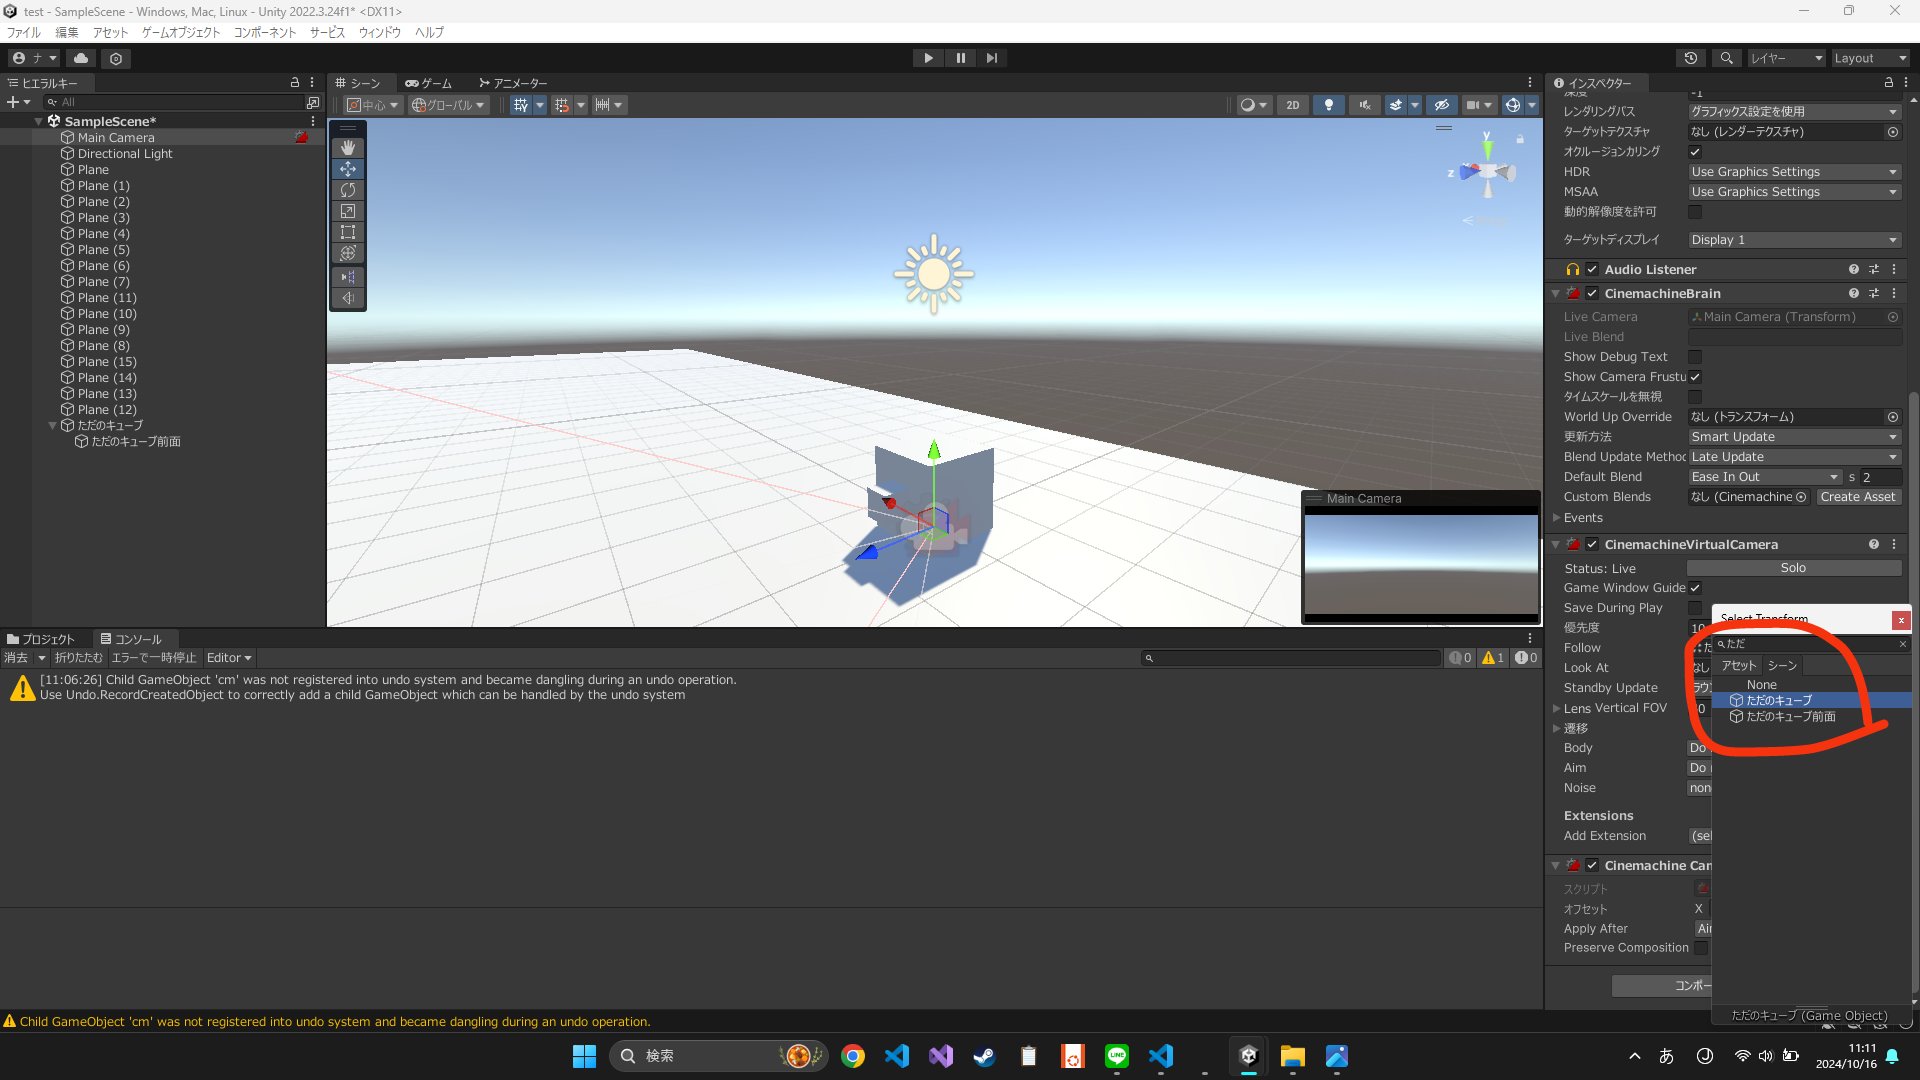
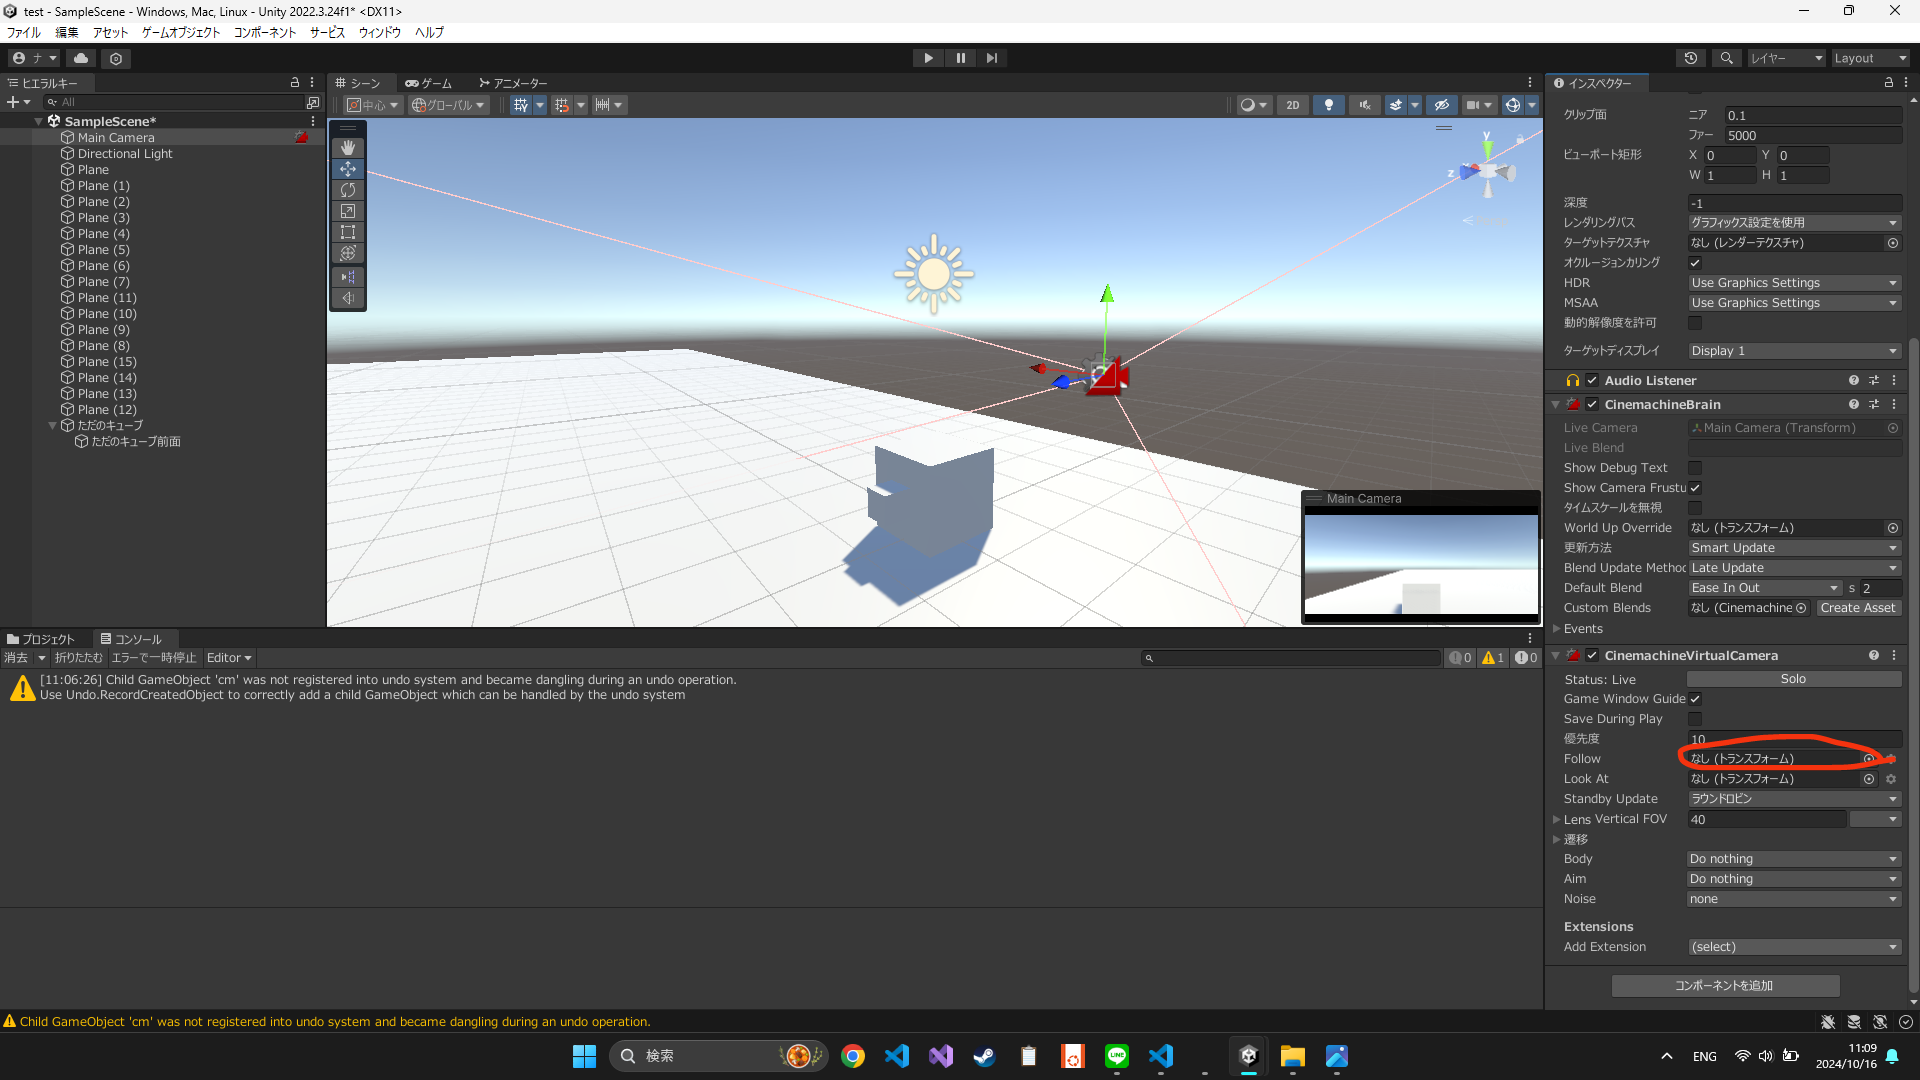
unity3dHowTo1完成

diff --git a/blog/unity3dHowto/part1/index.html b/blog/unity3dHowto/part1/index.html
@@ -26,14 +26,6 @@
 
     <main>
         <h1>[unity3D]cinemachineを使い、TPSカメラの作成を楽にする方法</h1>
-        <!-- 目次 -->
-        <ol class="contentsIndex">
-            <li>STEP0. 前準備</li>
-            <li>STEP1. cinemachineをインストール</li>
-            <li>STEP2. メインカメラにbrainを追加</li>
-            <li>STEP3. 設定を弄ってTPS視点完成!!</li>
-            <li>STEP4. (おまけ)カメラの方向に合わせた移動</li>
-        </ol>
 
         <!-- 前書き -->
         <p>unityのカメラ実装って地味に面倒ですよね</p>
@@ -45,55 +37,118 @@
         <p>ちなみに使用しているUnityのバージョンは「2022.3.24f1」です</p>
 
 
-        <!-- 本文 -->
-        <h2>cinemachineとは</h2>
+        <h2>Cinemachineとは</h2>
         <p>簡単に言うと、カメラの作成を楽にするための公式アセットです</p>
-        <p>fpsやtps、真上からの視点などはよく使うカメラワークだと思います</p>
+        <p>FPS・TPS・MOVAの視点など、ジャンル毎によく使うカメラワークがあります</p>
         <p>そういったカメラワークを自分で毎回1から作ると大変です</p>
-        <p>このcinemachineでは、そういったよく使うカメラの処理を予め用意してくれているので、ゲーム開発者は少し設定を弄るだけで簡単にいい感じのカメラを作ることが出来るのです</p>
+        <p>Cinemachineでは、そういったよく使うカメラの処理を予め用意してくれているので、ゲーム開発者は少し設定を弄るだけで簡単にいい感じのカメラを作ることが出来るのです</p>
+        <p>ChinemaBrainという核に、設定を肉付けしていくようなイメージで扱います</p>
 
         <h2>前準備</h2>
         <p>下記の画像のように、操作したいキャラをシーンに配置しましょう</p>
-        <p>私は分かりやすいよう、「ただのブロック」というブロックを二つくっつけたキャラもどきをシーンに配置しました</p>
-        
+        <p>私は「ただのブロック」というキャラもどきをシーンに配置しました</p>
+
         <p><img src="data/1.png" alt=""></p>
 
         <p>前準備はこれだけです</p>
         <p>次はTPSカメラを作成していきます</p>
 
-        <h2>STEP1. cinemachineをインストール</h2>
+        <h2>STEP1. Cinemachineをインストール</h2>
         <p>まずはcinemachineをインストールしましょう</p>
         <p>手順は以下の通りです</p>
 
-
         
+        <p>パッケージマネージャーを開くために、ウィンドウ > パッケージマネージャーを選択</p>
         <p><img src="data/2.png" alt=""></p>
+
+        <p>「パッケージ: プロジェクト内」をクリックし、ドロップダウンを開く</p>
         <p><img src="data/3.png" alt=""></p>
+
+        <p>「Unityレジストリ」を選択</p>
         <p><img src="data/4.png" alt=""></p>
+
+        <p>検索窓で「Cinemachin」を検索</p>
+        <p>表示されたCinemachinを選択し、インポート</p>
         <p><img src="data/5.png" alt=""></p>
+        <p>私はインポートしてあるので削除ボタンがありますが、皆さんは「インポート」になってると思います</p>
+
+        <p>パーケージマネージャを閉じる</p>
         <p><img src="data/6.png" alt=""></p>
+
+
+        <h2>STEP2. メインカメラにChinemachineを追加</h2>
+        <h3>ChinemachineBrainをメインカメラに追加</h3>
+        <p>ChinemachineBrainとは名前の通りChinemachineの脳であり、核みたいなものです</p>
+        <p>なのでChinemachineBrainは、とりあえずメインカメラにくっつけておくものだと覚えましょう</p>
+        <p>手順は以下の通りです</p>
+        <p>メインカメラを選択し、コンポーネント > Chinemachine > ChinemachineBrain</p>
+
         <p><img src="data/7.png" alt=""></p>
+
+
+        <h3>ChinemachineVirtualCameraをメインカメラに追加</h3>
+        <p>ChinemachineVirtualCameraとは、カメラ操作に関する設定を行うものです</p>
+        <p>先ほどChinemaBrainを追加した要領で、ChinemachineVirtualCameraも追加しましょう</p>
         <p><img src="data/8.png" alt=""></p>
+
+        <h3>ChinemachineCameraOffsetを追加</h3>
+        <p>ChinemachineCameraOffsetとは、名前の通りカメラとの距離感を調整するものです</p>
+        <p>では追加していきましょう</p>
+        <p>手順は以下の通りです。</p>
+        <p>ChinemachineVirtualCameraのAdd Extentionプロパティから、ChinemachineCameraOffsetを選択</p>
         <p><img src="data/9.png" alt=""></p>
-        <p><img src="data/10.png" alt=""></p>
-        <p><img src="data/11.png" alt=""></p>
-        <p><img src="data/12.png" alt=""></p>
-        <p><img src="data/13.png" alt=""></p>
-        <p><img src="data/14.png" alt=""></p>
-        <p><img src="data/15.png" alt=""></p>
 
 
-
-
-
-
-        <h2>STEP2. メインカメラにbrainを追加</h2>
 
         <h2>STEP3. 設定を弄ってTPS視点完成!!</h2>
+        <h3>Followの設定</h3>
+        <p>Followとは追跡する対象を選択する項目です</p>
+        <p>Chinemachineではこの項目があるので、キャラの子要素にカメラを設定する必要がありません</p>
+        <p>便利ですね～</p>
+        <p>ということで、Followを設定していきます</p>
+        <p>手順は以下の通りです</p>
+        <p>Follow > Followのドロップダウンから、操作したいキャラを選びます</p>
+        <p><img src="data/10.png" alt=""></p>
+        <p><img src="data/11.png" alt=""></p>
+        
+        
+        <p>私は「ただのキューブ」を操作したいので、それ選びます</p>
+        <p>ゲームオブジェクトなら何でも選べるので、皆さんはお好みで操作したいキャラを選んで大丈夫です</p>
+        <p><img src="data/12.png" alt=""></p>
+        
+        
+        
+        <h3>Bodyの設定</h3>
+        <p>Bodyとは、カメラを動かすアルゴリズムを選択する項目です</p>
+        <p>Body項目のドロップダウンから「Hard Look To Target」を選択します</p>
+        <p><img src="data/13.png" alt=""></p>
+        <p>「Hard Look To Target」とは名前の通り、常にFollowで設定した対象にカメラを向けるように動くための設定です</p>
+        <p>「3rd person Follow」を選ばなくていいの？</p>
+        <p>と思った方もいるかもしれません</p>
+        <p>私も最初はそう思いました</p>
+        <p>しかしこれは孔明の罠です</p>
+        <p>私は躓きました</p>
+        <p>というのも、「3rd person Follow」はキャラの向きを変えるとカメラが移動し、向きも変わります</p>
+        <p>ですのでTPSには向きませんでした</p>
+        <p>色々試行錯誤した結果、「Hard Look To Target」使う方法に行きつきました</p>
 
-        <h2>STEP4. (おまけ)カメラの方向に合わせた移動</h2>
-        <p class="code indent3"></p>
 
+        <h3>Aimの設定</h3>
+        <p>Aimとは、カメラ向きをどのように変えるかを選択する項目です</p>
+        <p>設定方法は、Aim項目のドロップダウンから「POV」を選択するだけです</p>
+        <p><img src="data/14.png" alt=""></p>
+        <p><img src="data/15.png" alt=""></p>
+        <p>POVとはFPSみたいなカメラ操作を指します</p>
+        <p>TPSとFPSの違いは距離感と、キャラの向きが連動するかの違いだけです</p>
+        <p>ですのでカメラの向きの設定は、FPSと同じような設定で大丈夫です</p>
+
+        <h3>キャラとカメラの距離感設定</h3>
+        <p>ChinemachineCameraOffsetのオフセットという項目で、キャラとカメラの距離感を設定できます</p>
+        <p><img src="data/16.png" alt=""></p>
+        
+        <p>これでTPSっぽい距離感に調整したら、TPSカメラ完成の完成です!!</p>
+        <p>下記がカメラの操作感です</p>
+        <p><img src="data/1.gif" alt=""></p>
 
 
         <h2>まとめ</h2>
@@ -113,8 +168,6 @@
         <script type="text/javascript"
             src="https://xml.affiliate.rakuten.co.jp/widget/js/rakuten_widget.js?20230106"></script>
     </div>
-    blog\unity3dHowto\part1\index.html
-
 
     <script>
         const addHtml = `

diff --git a/blog/css/style.css b/blog/css/style.css
@@ -55,6 +55,7 @@ p img {
 
 img {
     max-width: 100%;
+    width: 100%;
     height: auto;
 }
 
